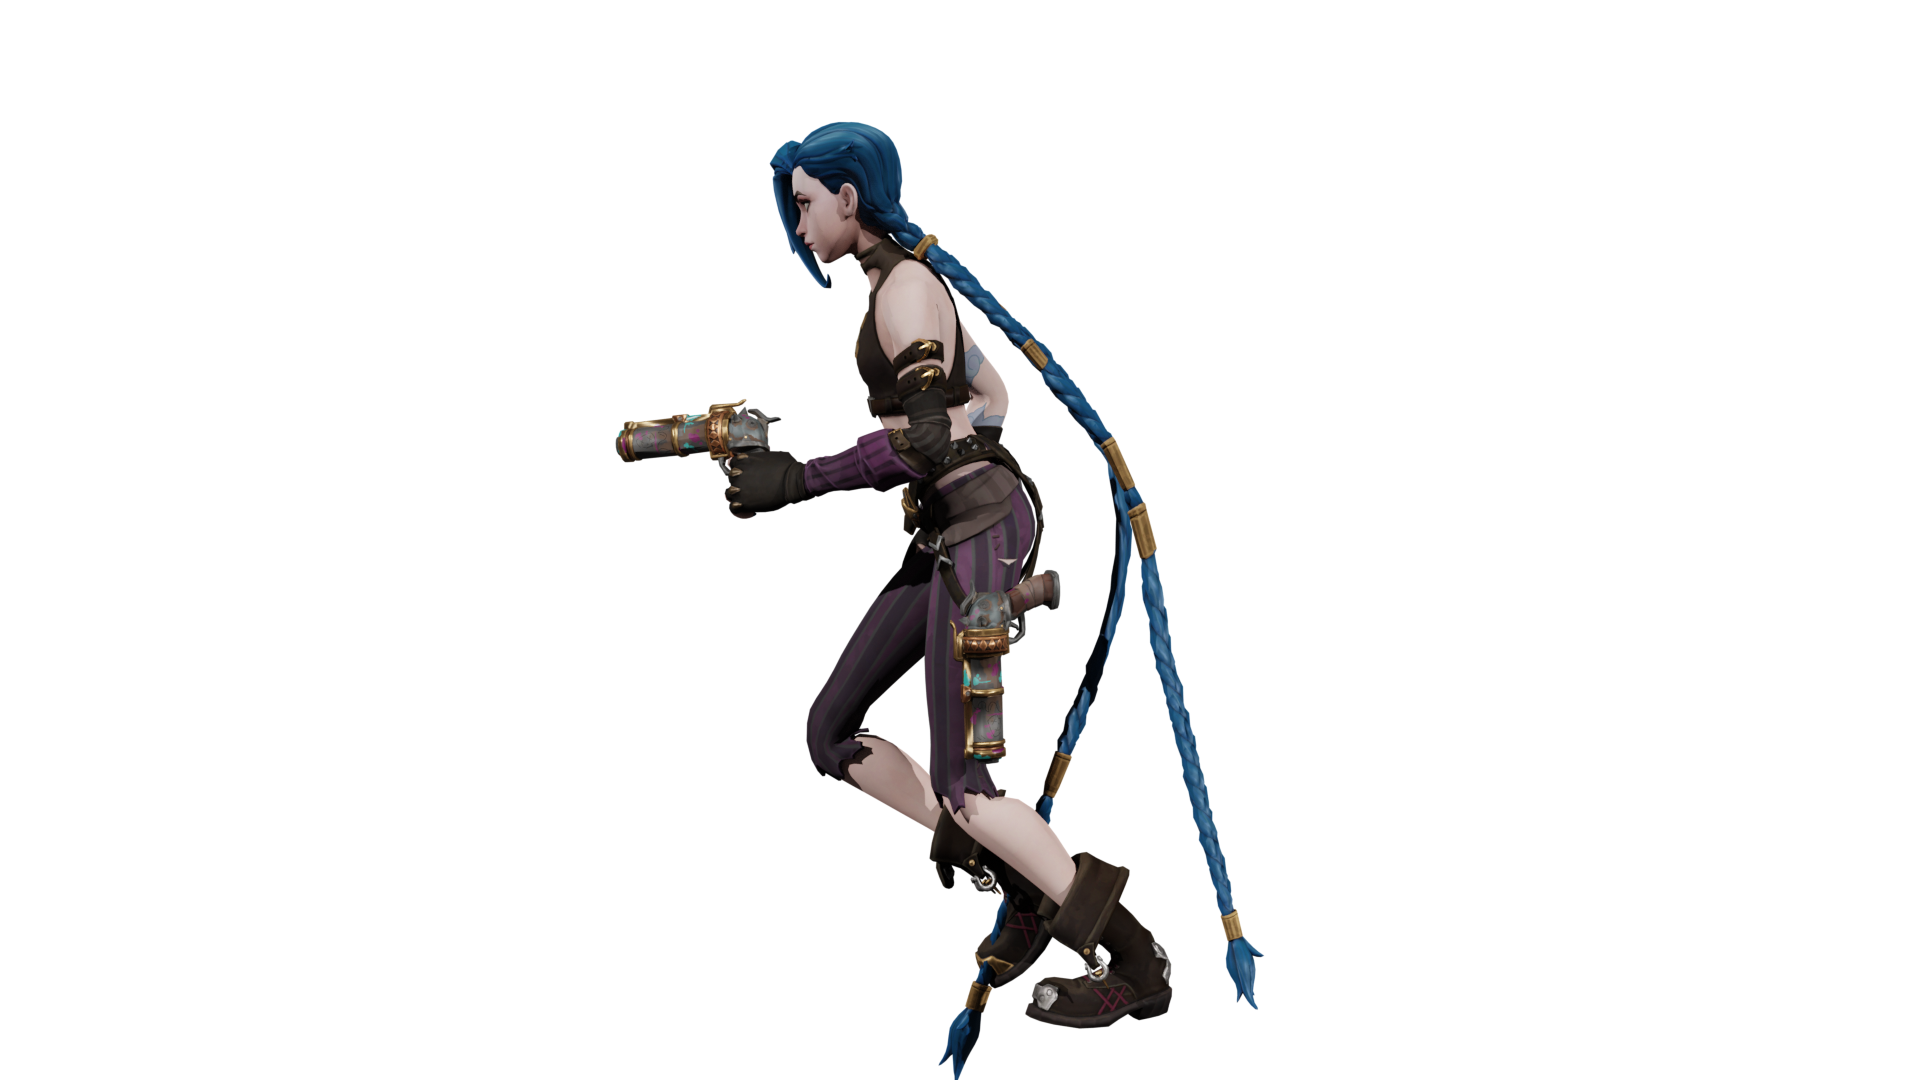
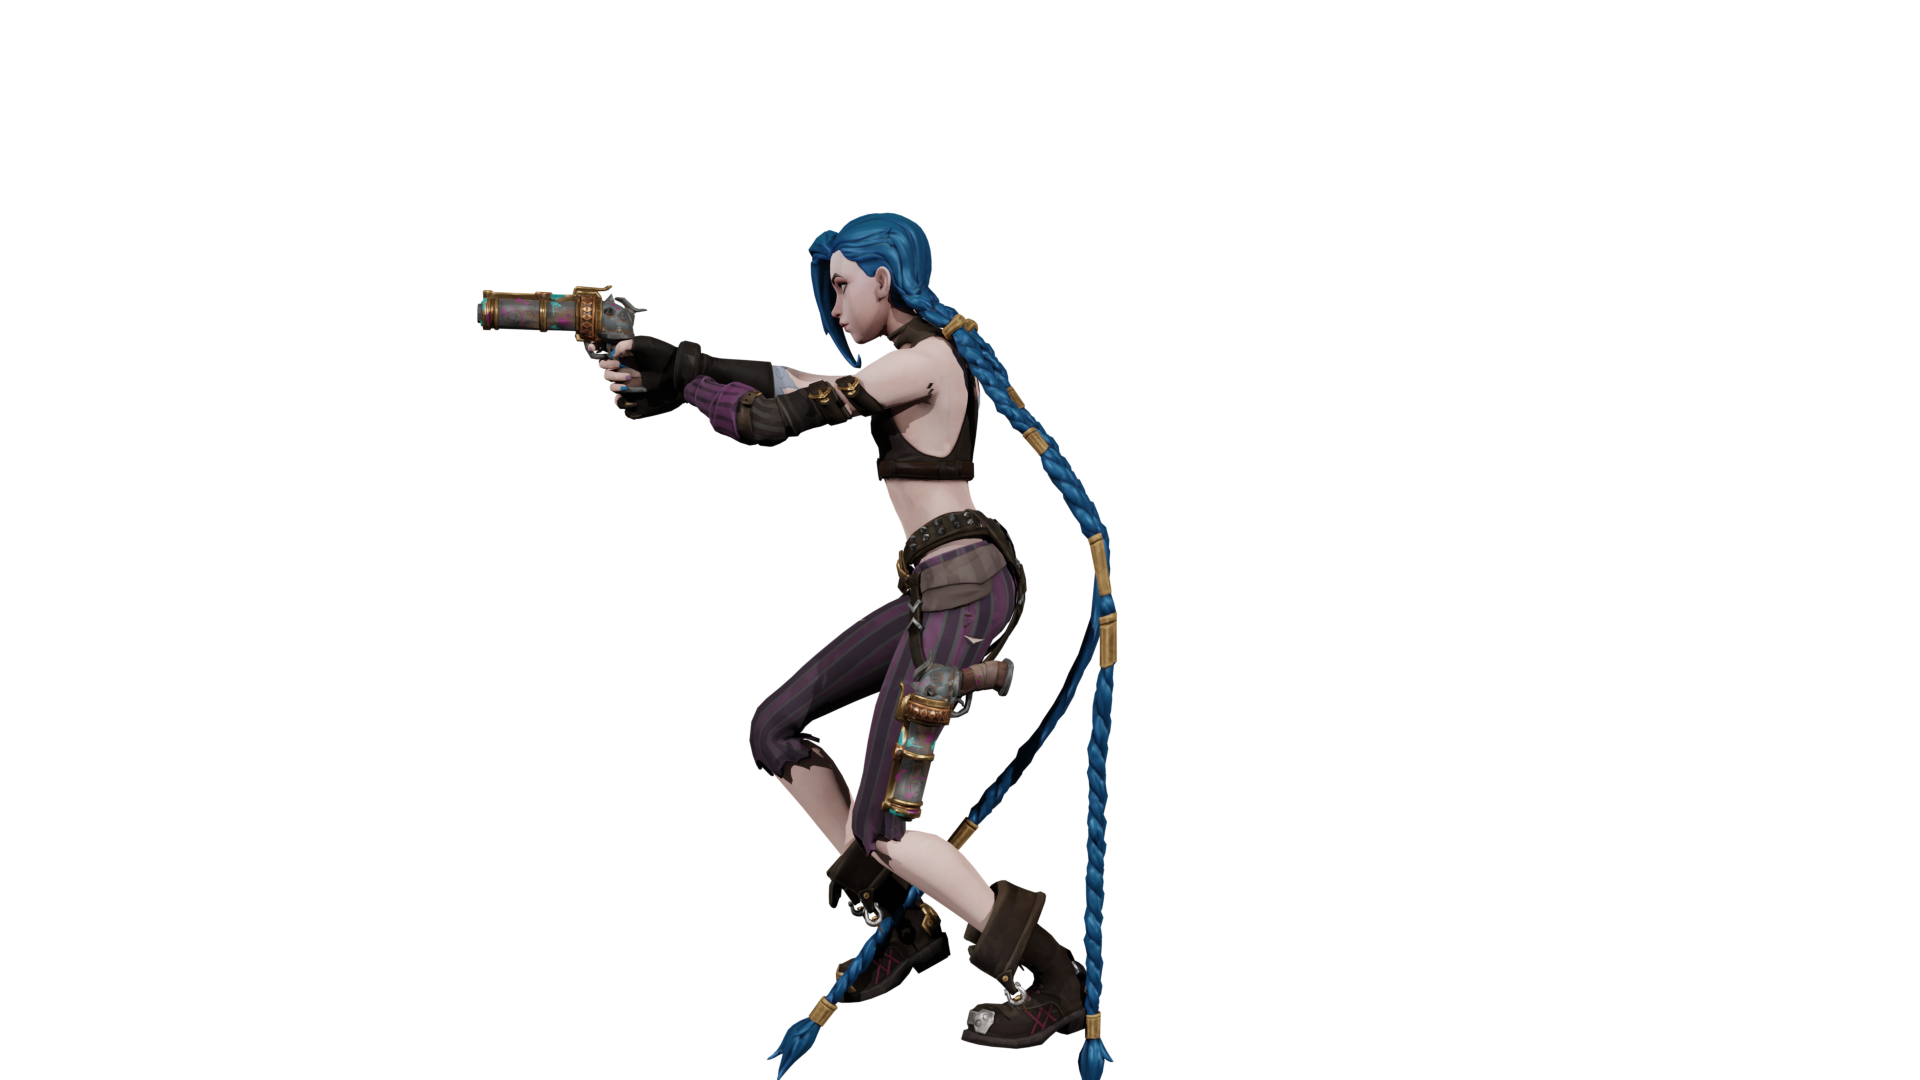
Move pictures added Move animations implemented

Changed region(s): [[0.25, 0.0917, 0.6562, 1.0]]

diff --git a/EscapeFromZaun.WpfLogic/PlayerLogic.cs b/EscapeFromZaun.WpfLogic/PlayerLogic.cs
@@ -14,6 +14,7 @@ namespace EscapeFromZaun.WpfLogic
     {
         int width;
         int height;
+        bool lookRight;
         public int DrawFromX { get; set; }
         public int DrawFromY { get; set; }
         List<Brush> runRightBrushes;
@@ -41,16 +42,16 @@ namespace EscapeFromZaun.WpfLogic
             jumpLeftBrushes = new List<Brush>();
             jumpRightBrushes = new List<Brush>();
 
-            //string[] runRight = Directory.GetFiles(@"../../../../EscapeFromZaun//Views/Images/GameImages/JinxMove/RunRight", "*.png");
+            string[] runRight = Directory.GetFiles(@"../../../../EscapeFromZaun//Views/Images/GameImages/JinxMove/RunRight2", "*.png");
             string[] runLeft = Directory.GetFiles(@"../../../../EscapeFromZaun//Views/Images/GameImages/JinxMove/RunLeft", "*.png");
 
-            //string[] jumpRight = Directory.GetFiles(@"../../../../EscapeFromZaun//Views/Images/GameImages/JinxMove/JumpRight", "*.png");
+            string[] jumpRight = Directory.GetFiles(@"../../../../EscapeFromZaun//Views/Images/GameImages/JinxMove/JumpRight", "*.png");
             string[] jumpLeft = Directory.GetFiles(@"../../../../EscapeFromZaun//Views/Images/GameImages/JinxMove/JumpLeft", "*.png");
 
-            //foreach (string run in runRight)
-            //{
-            //    runRightBrushes.Add(new ImageBrush(new BitmapImage(new Uri(Path.Combine(run), UriKind.RelativeOrAbsolute))));
-            //}
+            foreach (string run in runRight)
+            {
+                runRightBrushes.Add(new ImageBrush(new BitmapImage(new Uri(Path.Combine(run), UriKind.RelativeOrAbsolute))));
+            }
             foreach (string run in runLeft)
             {
                 runLeftBrushes.Add(new ImageBrush(new BitmapImage(new Uri(Path.Combine(run), UriKind.RelativeOrAbsolute))));
@@ -61,15 +62,18 @@ namespace EscapeFromZaun.WpfLogic
                 jumpLeftBrushes.Add(new ImageBrush(new BitmapImage(new Uri(Path.Combine(item), UriKind.RelativeOrAbsolute))));
             }
 
+            foreach (string item in jumpRight)
+            {
+                jumpRightBrushes.Add(new ImageBrush(new BitmapImage(new Uri(Path.Combine(item), UriKind.RelativeOrAbsolute))));
+            }
+
             frameRunNumber = runLeftBrushes.Count();
             frameJumpNumber = jumpLeftBrushes.Count();
             actualRunFrameIndex = 0;
             actualJumpFrameIndex = 0;
 
-            //standRightBrush = new ImageBrush(new BitmapImage(new Uri(Path.Combine(@"../../../../EscapeFromZaun/Views/Images/GameImages/JinxMove/StandRight.png"), UriKind.RelativeOrAbsolute)));
-            //standLeftBrush = new ImageBrush(new BitmapImage(new Uri(Path.Combine(@"../../../../EscapeFromZaun/Views/Images/GameImages/JinxMove/StandLeft.png"), UriKind.RelativeOrAbsolute)));
-            //jumpRightBrush = new ImageBrush(new BitmapImage(new Uri(Path.Combine(@"../../../../EscapeFromZaun/Views/Images/GameImages/JinxMove/JumpRight.png"), UriKind.RelativeOrAbsolute)));
-            //jumpLeftBrush = new ImageBrush(new BitmapImage(new Uri(Path.Combine(@"../../../../EscapeFromZaun/Views/Images/GameImages/JinxMove/JumpLeft.png"), UriKind.RelativeOrAbsolute)));
+            standRightBrush = new ImageBrush(new BitmapImage(new Uri(Path.Combine(@"../../../../EscapeFromZaun/Views/Images/GameImages/JinxMove/StandRight.png"), UriKind.RelativeOrAbsolute)));
+            standLeftBrush = new ImageBrush(new BitmapImage(new Uri(Path.Combine(@"../../../../EscapeFromZaun/Views/Images/GameImages/JinxMove/StandLeft.png"), UriKind.RelativeOrAbsolute)));
         }
 
         //public Brush PlayerBrush
@@ -83,14 +87,14 @@ namespace EscapeFromZaun.WpfLogic
         {
             get
             {
-                return new RectangleGeometry(new System.Windows.Rect(DrawFromX, DrawFromY, width, height));
+                return new RectangleGeometry(new System.Windows.Rect(DrawFromX+130, DrawFromY+30, width-250, height-30));
             }
         }
         public Geometry CharacterFrame
         {
             get
             {
-                return null;
+                return new RectangleGeometry(new System.Windows.Rect(DrawFromX, DrawFromY, width, height));
             }
         }
         public void Move(Directions direction)
@@ -114,25 +118,26 @@ namespace EscapeFromZaun.WpfLogic
         }
         public Brush PlayerBrush(bool lookRight, bool goingRight, bool goingLeft, bool onFloor)
         {
-            ;
+            this.lookRight = lookRight;
             switch (lookRight)
             {
                 case true: //jobbra néz
                     switch (onFloor)
                     {
                         case false: //jobbra ugrik
-                            //return jumpRightBrush;
-                            return Brushes.AliceBlue;
+                            return JumpBrush();
+                            //return Brushes.AliceBlue;
                         case true:
                             actualJumpFrameIndex = 0;
                             switch (goingRight)
                             {
                                 case true:
                                     //jobbra mozgó képkockák
-                                    return Brushes.Yellow;
+                                    //return Brushes.Yellow;
+                                    return RunBrush();
                                 case false:
-                                    //return standRightBrush; //egy helyben áll
-                                    return Brushes.Orange;
+                                    return standRightBrush; //egy helyben áll
+                                    //return Brushes.Orange;
                             }
                     }
 
@@ -152,32 +157,58 @@ namespace EscapeFromZaun.WpfLogic
                                     //return Brushes.Wheat;
                                 case false:
                                     //return standLeftBrush; //egy helyben áll
-                                    return Brushes.Violet;
+                                    return standLeftBrush;
                             }
                     }
             }
         }
         private Brush RunBrush()
         {
-            actualRunFrameIndex++;
-            if(actualRunFrameIndex>=frameRunNumber)
+            if(lookRight)
             {
-                actualRunFrameIndex = 0;
-            }
-            return runLeftBrushes[actualRunFrameIndex];
-        }
-        private Brush JumpBrush()
-        {
-            if(actualJumpFrameIndex< frameJumpNumber-1)
-            {
-                actualJumpFrameIndex++;
-                return jumpLeftBrushes[actualJumpFrameIndex];
+                actualRunFrameIndex++;
+                if (actualRunFrameIndex >= frameRunNumber)
+                {
+                    actualRunFrameIndex = 0;
+                }
+                return runRightBrushes[actualRunFrameIndex];
             }
             else
             {
-                return jumpLeftBrushes[actualJumpFrameIndex-1];
+                actualRunFrameIndex++;
+                if (actualRunFrameIndex >= frameRunNumber)
+                {
+                    actualRunFrameIndex = 0;
+                }
+                return runLeftBrushes[actualRunFrameIndex];
             }
         }
-        
+        private Brush JumpBrush()
+        {
+            if(lookRight)
+            {
+                if (actualJumpFrameIndex < frameJumpNumber - 1)
+                {
+                    actualJumpFrameIndex++;
+                    return jumpRightBrushes[actualJumpFrameIndex];
+                }
+                else
+                {
+                    return jumpRightBrushes[actualJumpFrameIndex - 1];
+                }
+            }
+            else
+            {
+                if (actualJumpFrameIndex < frameJumpNumber - 1)
+                {
+                    actualJumpFrameIndex++;
+                    return jumpLeftBrushes[actualJumpFrameIndex];
+                }
+                else
+                {
+                    return jumpLeftBrushes[actualJumpFrameIndex - 1];
+                }
+            }
+        }
     }
 }

diff --git a/EscapeFromZaun.WpfLogic/GameLogic.cs b/EscapeFromZaun.WpfLogic/GameLogic.cs
@@ -67,6 +67,8 @@ namespace EscapeFromZaun.WpfLogic
             int rowsNumber = lines.Length;
             int colsNumber = lines[0].Length;
 
+            int platformWidth = (int)windowSize.Width/colsNumber;
+
             roofCord = (-1)*rowsNumber * 100; // in every 100 px a platform is drawn
             ;
             for (int i = 0; i < rowsNumber; i++)
@@ -77,11 +79,11 @@ namespace EscapeFromZaun.WpfLogic
                     var tmpC = tmp[j];
                     if(lines[i][j]=='J')
                     {
-                        MainPlayer = new PlayerLogic(200, 200) { DrawFromX= j*384, DrawFromY = roofCord + i * 100 + 1000 }; //384 is platfrom width but it can also be calculated by windowWidth / 5
+                        MainPlayer = new PlayerLogic(350, 200) { DrawFromX= j* platformWidth, DrawFromY = roofCord + i * 100 + 1000 }; //384 is platfrom width but it can also be calculated by windowWidth / 5
                     }
                     else if(lines[i][j]=='P')
                     {
-                        Platforms.Add(new Platform(j * 384, roofCord + i * 100 + 1000, 384, 50));
+                        Platforms.Add(new Platform(j * platformWidth, roofCord + i * 100 + 1000, 384, 50));
                         ;
                     }
                     else if(lines[i][j]=='B')
@@ -90,7 +92,7 @@ namespace EscapeFromZaun.WpfLogic
                     }
                     else if(lines[i][j]=='F')
                     {
-                        Platforms.Add(new FinishPlatform(j * 384, roofCord + i * 100 + 1000, 100, 100));
+                        Platforms.Add(new FinishPlatform(j * platformWidth, roofCord + i * 100 + 1000, 100, 100));
                     }
                     else if(lines[i][j]=='E')
                     {

diff --git a/EscapeFromZaun/Renderer/Display.cs b/EscapeFromZaun/Renderer/Display.cs
@@ -41,7 +41,8 @@ namespace EscapeFromZaun.Renderer
             {
                 player = logic.MainPlayer;
                 drawingContext.DrawRectangle(BackgroundBrush, null,logic.BackgroundRect);
-                drawingContext.DrawGeometry(logic.PlayerBrush, null, player.Hitbox);
+                //drawingContext.DrawGeometry(Brushes.Red, null, player.Hitbox); //Hitbox
+                drawingContext.DrawGeometry(logic.PlayerBrush, null, player.CharacterFrame); //Player
 
                 foreach (var item in logic.Platforms)
                 {
